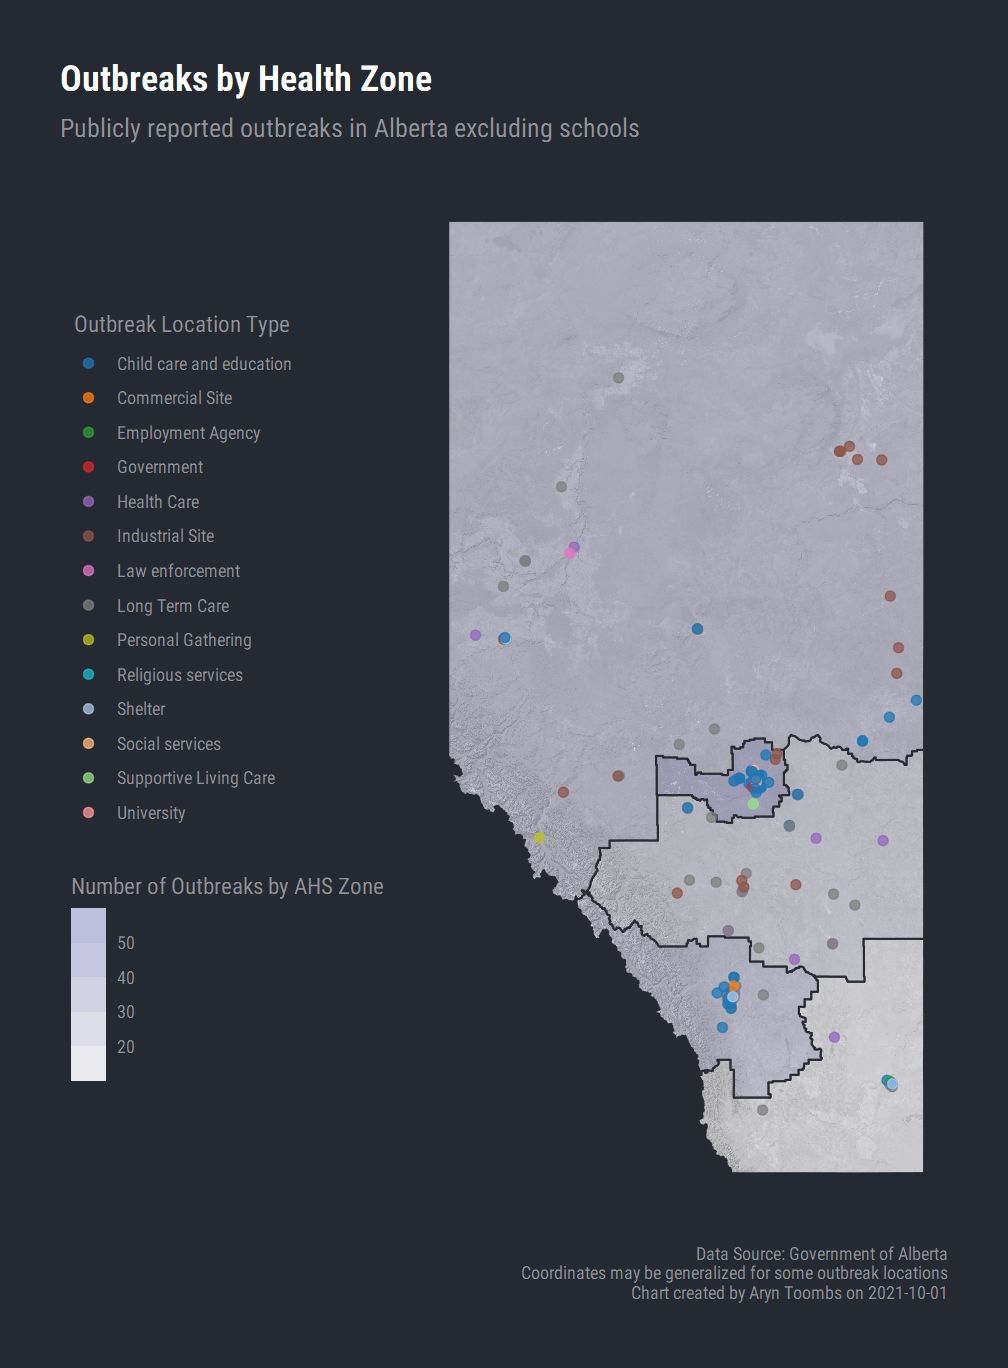
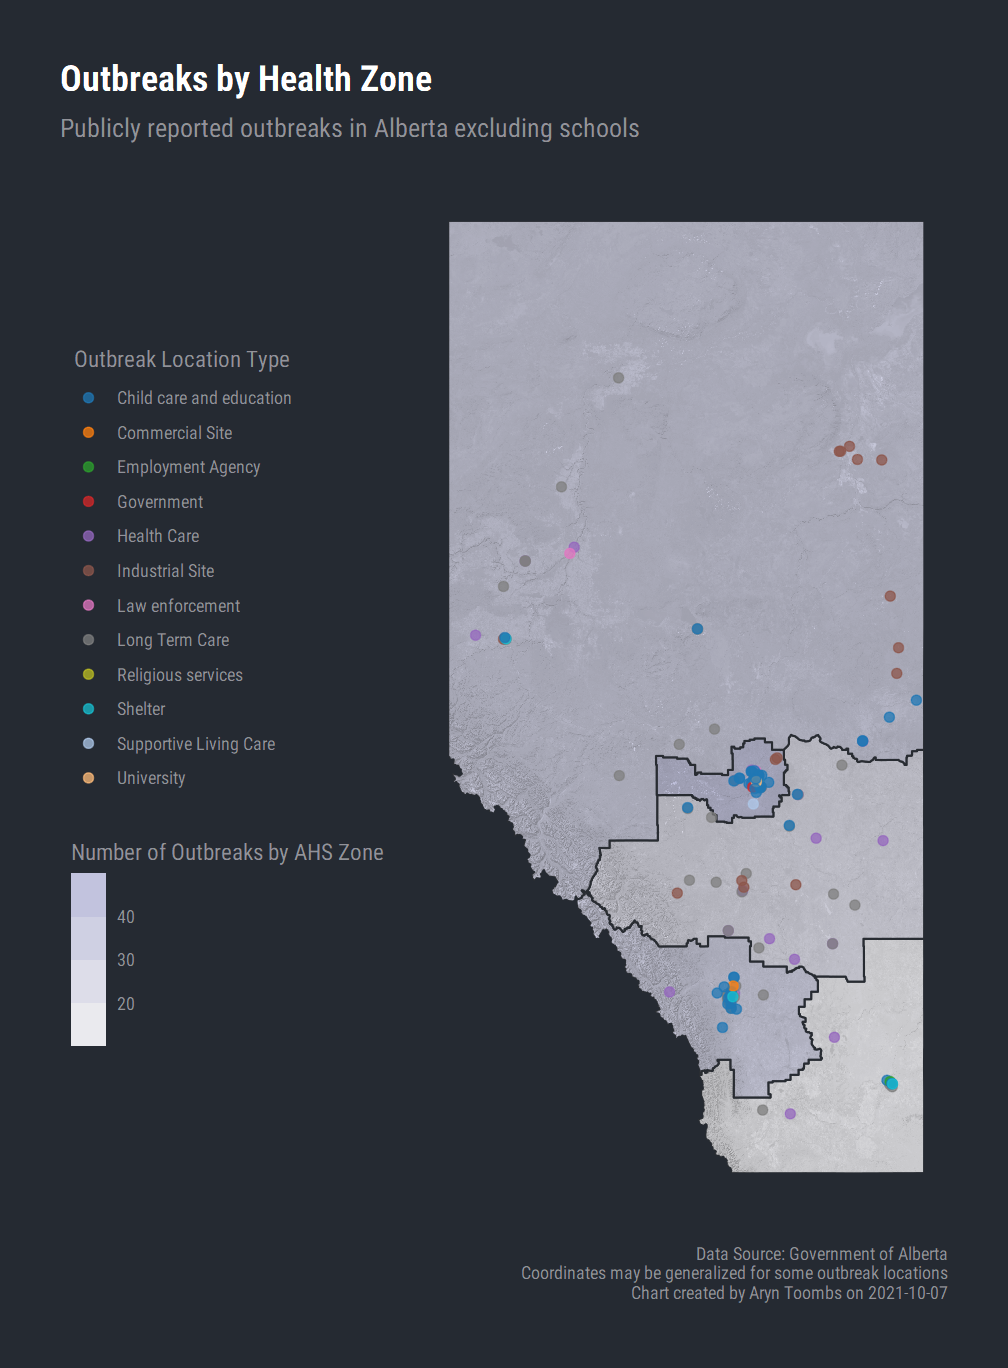
web

diff --git a/outbreaks/index.html b/outbreaks/index.html
@@ -168,7 +168,7 @@
       Calgary Zone
     </div>
     <div class="row box-bottom justify-content-center">
-      <h4>31</h4>
+      <h4>33</h4>
     </div>
   </div>
   <div class="col-sm ml-1 mr-1">
@@ -176,7 +176,7 @@
       Edmonton Zone
     </div>
     <div class="row box-bottom justify-content-center">
-      <h4>53</h4>
+      <h4>49</h4>
     </div>
   </div>
   <div class="col-sm ml-1 mr-1">
@@ -184,7 +184,7 @@
       South Zone
     </div>
     <div class="row box-bottom justify-content-center">
-      <h4>10</h4>
+      <h4>11</h4>
     </div>
   </div>
   <div class="col-sm ml-1 mr-1">
@@ -200,12 +200,12 @@
       North Zone
     </div>
     <div class="row box-bottom justify-content-center">
-      <h4>35</h4>
+      <h4>32</h4>
     </div>
   </div>
 </div>
 <div class="row mb-3 pr-1 pt-1 justify-content-end">
-  <p class="m-1"><i class="bi bi-info-circle-fill"></i> Covid-19 outbreaks (not including schools, see below) current as of Fri, Oct 01, 2021. AHS non-school outbreak data updated on Tuesdays and Fridays.</p>
+  <p class="m-1"><i class="bi bi-info-circle-fill"></i> Covid-19 outbreaks (not including schools, see below) current as of Thu, Oct 07, 2021. AHS non-school outbreak data updated on Tuesdays and Fridays.</p>
 </div>
   <div class="row pl-3">
     <h4 class="body-display">Outbreak Charts</h4>
